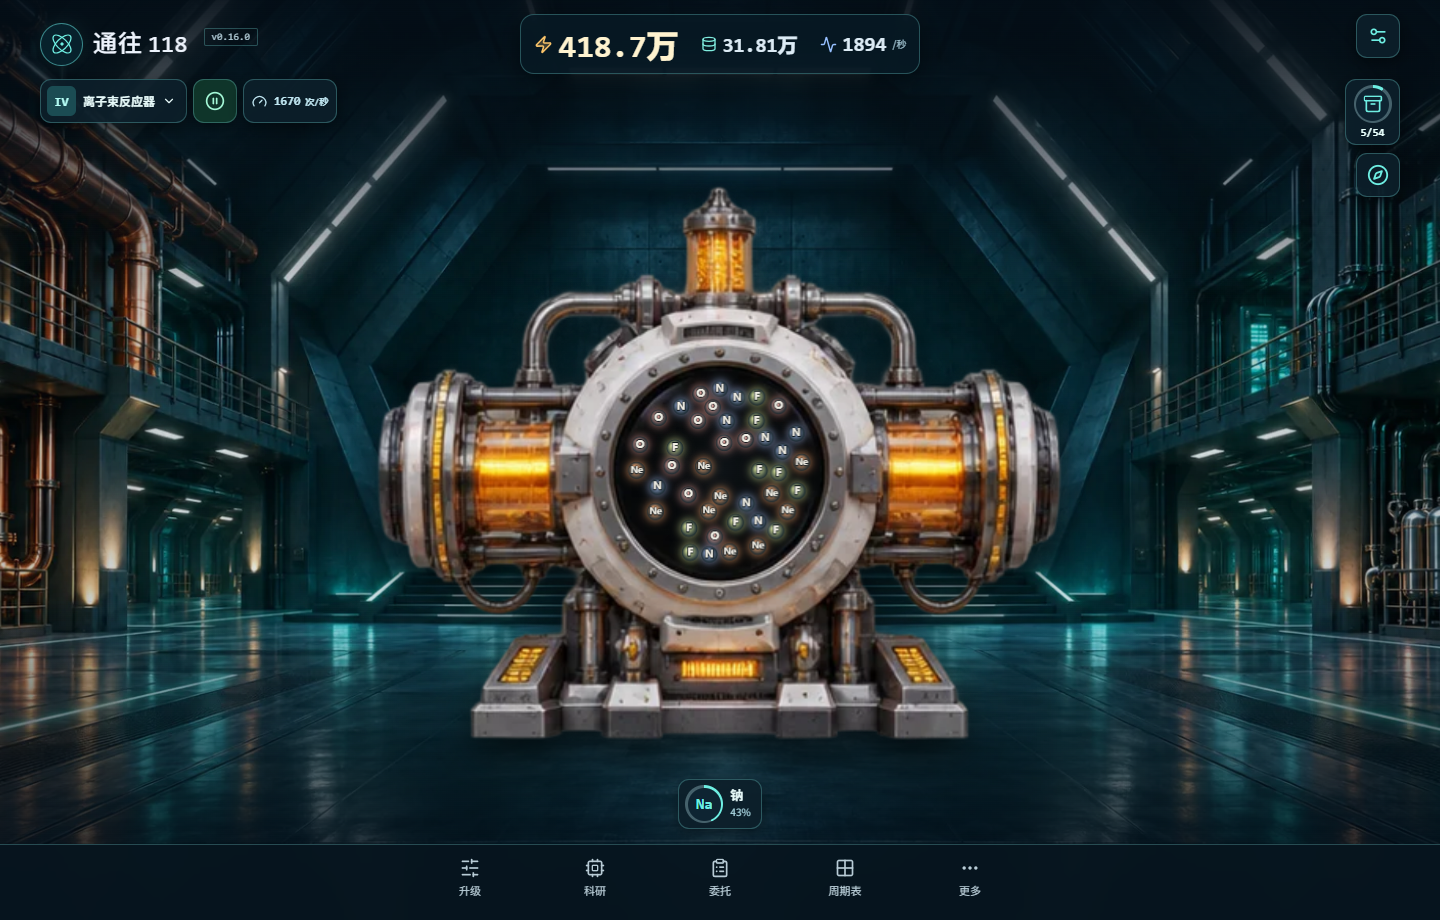
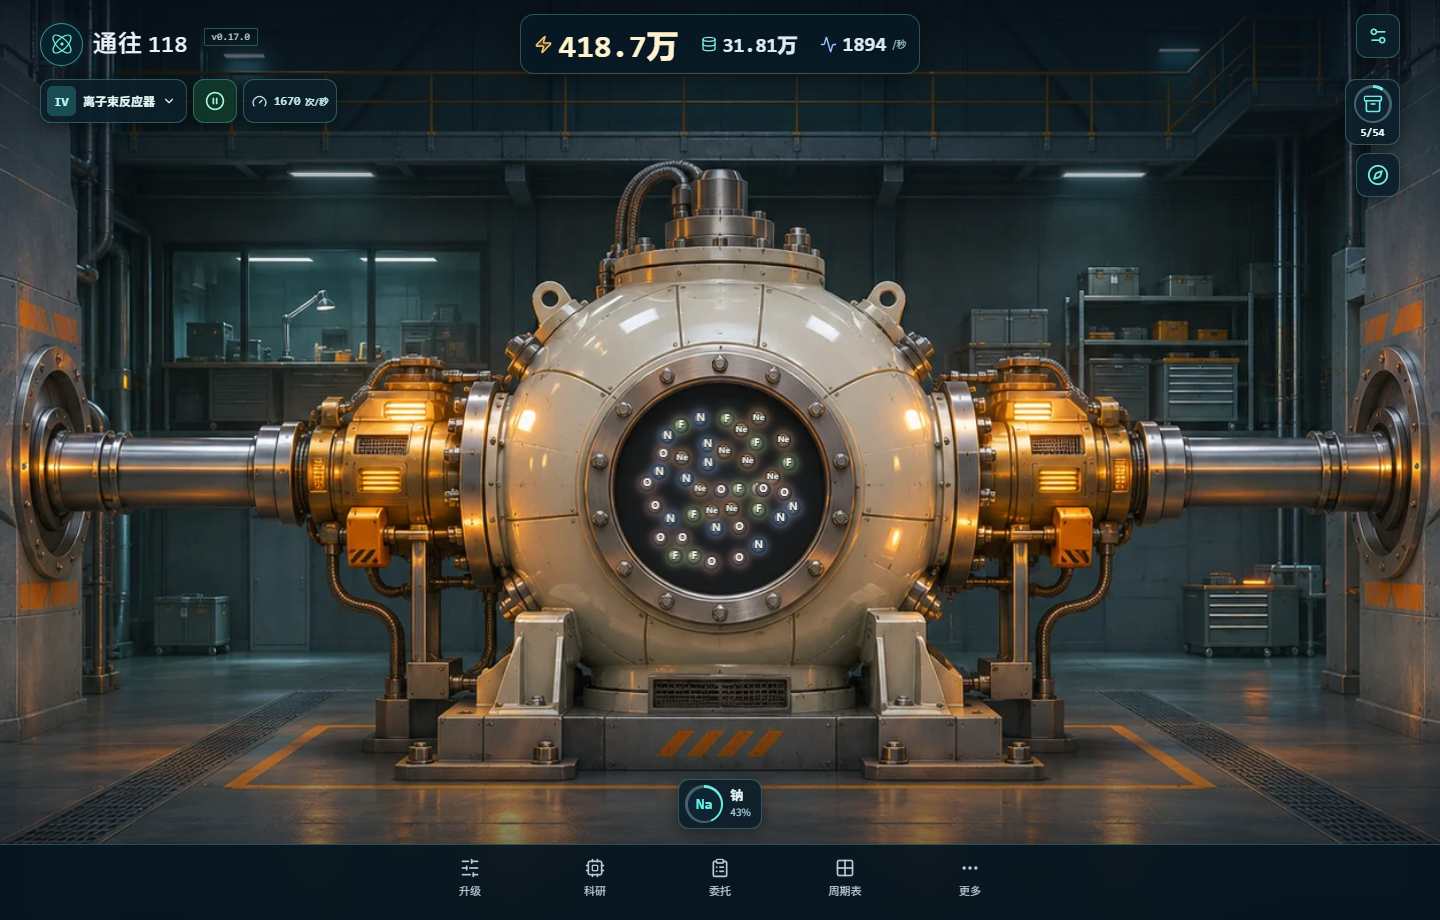
Paint each reactor and laboratory as one scene

diff --git a/src/app.tsx b/src/app.tsx
@@ -11,6 +11,7 @@ import type { GameState, Module, Upgrade } from './game/types';
 import { ELEMENTS, KNOWLEDGE, SCIENCE_NOTE, baikeUrl, element } from './data/elements';
 import Particles from './components/Particles';
 import ManualPulse from './components/ManualPulse';
+import ReactorScene from './components/ReactorScene';
 import Modal from './components/Modal';
 import Onboarding from './components/Onboarding';
 import OpeningSpotlight from './components/OpeningSpotlight';
@@ -26,7 +27,7 @@ import { assignedToSample } from './game/sampleContract';
 import { recommend, applyAdvice, openingStep } from './game/advisor';
 import './components/journey.css';
 import { AtomicFacts, FurtherScience } from './components/AtomicProfile';
-import { artworkUrl, reactorImageStyle, specimenImageStyle } from './data/artwork';
+import { artworkUrl, reactorScene, specimenImageStyle } from './data/artwork';
 import ElementAbility from './components/ElementAbility';
 import { abilityBonuses } from './game/abilityProgress';
 import AutomationControls, { IndustryModules } from './components/AutomationControls';
@@ -389,11 +390,6 @@ export default function App() {
       </button>
     </div>;
   }
-  const viewport = (
-    <div className="viewport">
-      <Particles count={Math.min(60, activeAtoms(r).toNumber())} mix={visualPool} speed={r.upgrades.speed} reduced={s.settings.reducedMotion} active={r.active} flash={flash}/>
-    </div>
-  );
   const collisionControl = <ManualPulse key={focus} enabled={engine.canManualPulse(focus)} reducedMotion={s.settings.reducedMotion}
         tutorialTarget label={r.active ? '点击触发碰撞' : '仪器已暂停'}
         onPulse={() => {
@@ -474,12 +470,12 @@ export default function App() {
     }
   };
 
-  const lab = () => <section className="lab-scene" aria-label="实验室" data-guiding={!!spotlight}
-    style={{ '--hall-art': `url("${artworkUrl('accelerator-hall.webp')}")` } as CSSProperties}>
-    <div className="device lab-playfield device-illustrated" inert={!!activeDrawer}>
-      <div className="device-photo" style={reactorImageStyle(focus)}>{viewport}</div>
-      {collisionControl}
-    </div>
+  const lab = () => <section className="lab-scene" aria-label="实验室" data-guiding={!!spotlight}>
+    <ReactorScene key={focus} id={focus}>
+      <Particles count={Math.min(60, activeAtoms(r).toNumber())} mix={visualPool}
+        speed={r.upgrades.speed} reduced={s.settings.reducedMotion} active={r.active} flash={flash}/>
+    </ReactorScene>
+    <div className="device lab-playfield" inert={!!activeDrawer}>{collisionControl}</div>
     <div className="scene-hud">
       {brand()}
       <section className="scene-resources" aria-label="实验室资源">
@@ -594,7 +590,7 @@ export default function App() {
     </section>
   );
 
-  const research = () => <><div className="section-heading"><div><h1>科研</h1></div><div className="research-budget"><span>可用研究数据</span><strong>{fmt(s.data)}<small> 点</small></strong></div></div><div className="research-grid">{REACTORS.map(t => { const state = s.reactors[t.id - 1], unlocked = max >= t.unlock, afford = s.coins.gte(t.buildCoins) && s.data.gte(t.buildData); return <section id={`research-reactor-${t.id}`} className={`panel research-device ${!unlocked ? 'is-locked' : ''}`} key={t.id}><div className="research-device-art research-series"><div style={reactorImageStyle(t.id)} /></div><div className="research-device-copy"><div className="eyebrow">{t.roman} 级 / {t.range}</div><h2>{t.name}</h2><div className="spec-line"><span>速度上限</span><strong>{t.cap} 次/秒</strong></div><div className="spec-line"><span>开放条件</span><strong>{t.id === 1 ? '开局可用' : `首次发现 ${element(t.unlock).name}`}</strong></div>{state.built ? <button className="secondary-button full" onClick={() => { setFocus(t.id); goToTab('lab'); }}><Check size={15}/>已建成 · 进入控制台<ArrowRight size={15}/></button> : <><div className="construction-cost"><span className={s.coins.gte(t.buildCoins) ? '' : 'insufficient'}>{fmt(t.buildCoins)} 碰撞能</span><span className={s.data.gte(t.buildData) ? '' : 'insufficient'}>{fmt(t.buildData)} 数据</span></div><button className="primary-button full" data-guide-target={t.id === 2 ? "build" : undefined} disabled={!unlocked || !afford} onClick={() => act(e => { if (e.build(t.id)) { setFocus(t.id); goToTab('lab'); } })}>{!unlocked ? <><LockKeyhole size={15}/>发现 {element(t.unlock).symbol} 后开放</> : <>研发并建造<ArrowRight size={15}/></>}</button>{unlocked && !afford && <p className="cost-shortfall">还差 {shortfall(t.buildCoins, t.buildData)}</p>}</>}</div></section>; })}</div><section id="industry-panel" className="panel industry-panel"><div className="panel-heading"><div><span className="eyebrow">INDUSTRIAL PIPELINE</span><h2>工业自动化</h2></div><span className="tiny-label">{Object.values(s.modules).filter(Boolean).length} / 3 模块</span></div><IndustryModules state={s} max={max} act={act}/><AutomationControls state={s} max={max} act={act}/></section></>;
+  const research = () => <><div className="section-heading"><div><h1>科研</h1></div><div className="research-budget"><span>可用研究数据</span><strong>{fmt(s.data)}<small> 点</small></strong></div></div><div className="research-grid">{REACTORS.map(t => { const state = s.reactors[t.id - 1], unlocked = max >= t.unlock, afford = s.coins.gte(t.buildCoins) && s.data.gte(t.buildData); return <section id={`research-reactor-${t.id}`} className={`panel research-device ${!unlocked ? 'is-locked' : ''}`} key={t.id}><div className="research-device-art research-series"><img src={artworkUrl(reactorScene(t.id).file)} alt="" loading="lazy" decoding="async"/></div><div className="research-device-copy"><div className="eyebrow">{t.roman} 级 / {t.range}</div><h2>{t.name}</h2><div className="spec-line"><span>速度上限</span><strong>{t.cap} 次/秒</strong></div><div className="spec-line"><span>开放条件</span><strong>{t.id === 1 ? '开局可用' : `首次发现 ${element(t.unlock).name}`}</strong></div>{state.built ? <button className="secondary-button full" onClick={() => { setFocus(t.id); goToTab('lab'); }}><Check size={15}/>已建成 · 进入控制台<ArrowRight size={15}/></button> : <><div className="construction-cost"><span className={s.coins.gte(t.buildCoins) ? '' : 'insufficient'}>{fmt(t.buildCoins)} 碰撞能</span><span className={s.data.gte(t.buildData) ? '' : 'insufficient'}>{fmt(t.buildData)} 数据</span></div><button className="primary-button full" data-guide-target={t.id === 2 ? "build" : undefined} disabled={!unlocked || !afford} onClick={() => act(e => { if (e.build(t.id)) { setFocus(t.id); goToTab('lab'); } })}>{!unlocked ? <><LockKeyhole size={15}/>发现 {element(t.unlock).symbol} 后开放</> : <>研发并建造<ArrowRight size={15}/></>}</button>{unlocked && !afford && <p className="cost-shortfall">还差 {shortfall(t.buildCoins, t.buildData)}</p>}</>}</div></section>; })}</div><section id="industry-panel" className="panel industry-panel"><div className="panel-heading"><div><span className="eyebrow">INDUSTRIAL PIPELINE</span><h2>工业自动化</h2></div><span className="tiny-label">{Object.values(s.modules).filter(Boolean).length} / 3 模块</span></div><IndustryModules state={s} max={max} act={act}/><AutomationControls state={s} max={max} act={act}/></section></>;
 
   const achievements = () => <><div className="section-heading"><div><div className="eyebrow">MILESTONES & IMPOSSIBILITIES</div><h1>记录突破，<span>也记录那些意外。</span></h1></div><span className="count-badge">{s.achievements.length}<small> / {ACHIEVEMENTS.length}</small></span></div><div className="achievement-grid">{ACHIEVEMENTS.map(a => { const earned = s.achievements.includes(a.id), hidden = a.hidden && !earned; return <section className={`panel achievement ${earned ? 'earned' : ''} ${hidden ? 'secret' : ''}`} key={a.id}><div className="achievement-medal">{hidden ? <LockKeyhole size={23}/> : a.hidden ? <Sparkles size={25}/> : <Trophy size={25}/>}</div><div><span className="eyebrow">{a.hidden ? 'HIDDEN DISCOVERY' : 'LAB MILESTONE'}{earned ? ' / 已达成' : ''}</span><h3>{hidden ? '？？？' : a.name}</h3><p>{hidden ? '在实验室的边界之外，还有意想不到的可能。' : a.description}</p></div>{earned && <Check className="earned-check" size={18}/>}</section>; })}</div><p className="page-note">隐藏成就只记录在线的成功合成；已发现元素的重复生产也可达成。徽章不会改变生产倍率。</p></>;
 

diff --git a/src/tests/browser/game.spec.ts b/src/tests/browser/game.spec.ts
@@ -293,7 +293,7 @@ test('H–Xe cards show specimen art, neutral electrons and isotope-specific neu
   await expect(dialog.locator('.electron-configuration')).toHaveCount(0);
 });
 
-test('I–VIII each load distinct art and support a manual pulse at the edge of the picture', async ({ page }) => {
+test('I–VIII each load an integrated scene with a visible window and support pulses at the edge', async ({ page }) => {
   const state = createState(810);
   state.settings.guideDismissed = true;
   state.elements.forEach(element => { element.discovered = true; });
@@ -301,28 +301,38 @@ test('I–VIII each load distinct art and support a manual pulse at the edge of 
   await page.addInitScript(save => localStorage.setItem('road-to-118.save.v1', save), serialize(state));
   await page.goto('/');
   const selector = page.getByRole('combobox', { name: '切换反应容器' });
-  const device = page.locator('.device-illustrated');
-  const positions = new Set<string>();
+  const device = page.locator('.lab-playfield');
+  const sources = new Set<string>();
   for (let index = 0; index < 8; index++) {
-    await page.setViewportSize({ width: index === 1 ? 360 : 1440, height: 800 });
+    const width = index % 2 ? 360 : 1440;
+    await page.setViewportSize({ width, height: 800 });
     await openLabPanel(page, 'instrument');
     await selector.selectOption(String(index + 1));
     await closeLabPanel(page);
-    const photo = device.locator('.device-photo');
-    await expect(photo).toHaveCSS('background-image', /reactor-series\.webp/);
-    positions.add(await photo.evaluate(photo => getComputedStyle(photo).backgroundPosition));
+    const photo = page.locator('.scene-image');
+    await expect(photo).toHaveAttribute('src', /reactor-room-[iv]+\.webp/);
+    sources.add(await photo.getAttribute('src') ?? '');
+    const aperture = page.locator('.scene-aperture canvas');
+    await expect(aperture).toBeInViewport({ ratio: 1 });
+    const window = (await aperture.boundingBox())!;
+    expect(window.width).toBeGreaterThan(70);
+    expect(window.x).toBeGreaterThan(0);
+    expect(window.x + window.width).toBeLessThan(width);
     const pulse = device.getByRole('button', { name: '手动碰撞' });
     await pulse.scrollIntoViewIfNeeded();
     const artBox = (await photo.boundingBox())!;
     const area = (await pulse.boundingBox())!;
     expect(artBox.width).toBeCloseTo(artBox.height, 0);
     expect(area).toEqual(await device.boundingBox());
-    await pulse.click({ position: { x: artBox.x - area.x + 10, y: 10 } });
+    await pulse.click({ position: { x: 10, y: area.height / 2 } });
     await expect(device.locator('.mp-fx-group.is-latest')).toContainText('碰撞能');
   }
   await page.getByRole('navigation', { name: '主导航' }).getByRole('button', { name: '科研' }).click();
-  expect(positions.size).toBe(8);
-  await expect(page.locator('.research-device-art.research-series')).toHaveCount(8);
+  expect(sources.size).toBe(8);
+  const gallery = page.locator('.research-device-art.research-series img');
+  await expect(gallery).toHaveCount(8);
+  expect(await gallery.evaluateAll(images => images.map(image => image.getAttribute('src')).sort()))
+    .toEqual([...sources].sort());
 });
 
 test('320px and 360px knowledge cards keep atomic data readable and distinguish fluorine from fluoride',async({page})=>{
@@ -442,7 +452,7 @@ test('released Ne save upgrades in place and shows a real Na survey after IV tun
   await openLabPanel(page, 'archive');
   await expect(page.locator('[data-z="10"]')).toHaveClass(/archived/);
   await closeLabPanel(page);
-  await expect(page.locator('.device-photo')).toHaveCSS('background-image',/reactor-series/);
+  await expect(page.locator('.scene-image')).toHaveAttribute('src', /reactor-room-iv\.webp/);
   await page.screenshot({path:'artifacts/v02-reactor-iv-desktop.png',fullPage:true,animations:'disabled'});
 });
 

diff --git a/src/components/lab-scene.css b/src/components/lab-scene.css
@@ -17,18 +17,42 @@
   min-height: 340px;
   overflow: clip;
   color: var(--scene-ink);
-  background: #061923 var(--hall-art) center 51% / cover no-repeat;
+  background: #061923;
+}
+.scene-art {
+  position: absolute;
+  inset: 0;
+  overflow: hidden;
+  container-type: size;
+  pointer-events: none;
+  user-select: none;
+}
+.scene-frame {
+  position: absolute;
+  top: 50%;
+  left: 50%;
+  width: max(100cqw, 100cqh);
+  aspect-ratio: 1;
+  transform: translate(-50%, -50%);
+}
+.scene-image { display: block; width: 100%; height: 100%; }
+.scene-aperture {
+  position: absolute;
+  aspect-ratio: 1;
+  transform: translate(-50%, -50%);
+  clip-path: circle(50%);
 }
 .lab-scene::before {
   content: '';
   position: absolute;
+  z-index: 1;
   inset: 0;
   pointer-events: none;
-  background: linear-gradient(180deg, #040e17e8, #0614206b 18%, transparent 33%, transparent 65%, #020c16d9 96%),
-    radial-gradient(ellipse at 50% 59%, #09546a30, #00142020 46%, #02091067 100%);
+  background: linear-gradient(180deg, #050e17d9, #09172058 16%, transparent 31%, transparent 72%, #020d17be 100%);
 }
 .scene-shell .lab-playfield {
   position: absolute;
+  z-index: 2;
   inset: max(119px, 15svh) 0 max(144px, 16svh);
   width: auto;
   aspect-ratio: auto;
@@ -36,18 +60,8 @@
   background: transparent;
   box-shadow: none;
   overflow: visible;
-  container-type: size;
 }
 .scene-shell .lab-playfield::after { content: none; }
-.scene-shell .lab-playfield .device-photo {
-  width: min(96cqw, 110cqh, 710px);
-  aspect-ratio: 1;
-  left: 50%;
-  top: 54%;
-  transform: translate(-50%, -50%);
-  filter: drop-shadow(0 16px 21px #000b);
-}
-.scene-shell .lab-playfield .viewport { --port-width: 31%; --port-y: 48.5%; z-index: 1; }
 .scene-shell .lab-playfield .manual-pulse { overflow: hidden; }
 .scene-shell .lab-playfield .manual-pulse__hit:focus-visible { border-radius: 12px; }
 .scene-shell .lab-playfield .mp-hint { bottom: 1%; }
@@ -333,13 +347,12 @@
 }
 .scene-more button svg:last-child { margin-left: auto; }
 .app-shell .research-device-art.research-series {
-  display: grid;
-  place-items: center;
+  display: block;
+  overflow: hidden;
   aspect-ratio: 1.7;
-  padding: 10px;
-  background: radial-gradient(ellipse, #274959, #102330 64%, #0b1826);
+  background: #10232e;
 }
-.research-series > div { height: 100%; aspect-ratio: 1; max-width: 100%; }
+.research-series img { display: block; width: 100%; height: 100%; object-fit: cover; }
 .scene-drawer-content .bulk-control button,
 .scene-drawer-content .reactor-switch > button,
 .scene-drawer-content #reactor-selector,
@@ -363,7 +376,6 @@
   .scene-hud > .scene-icon-button { grid-row: 1; grid-column: 2; }
   .scene-instrument, .scene-tools { top: max(105px, calc(env(safe-area-inset-top) + 97px)); }
   .scene-shell .lab-playfield { top: max(158px, 20svh); bottom: max(145px, 16svh); }
-  .scene-shell .lab-playfield .device-photo { width: min(97cqw, 118cqh); }
   .scene-local { min-height: 33px; }
   .scene-drawer, .scene-drawer:has(.lab-archive) { width: 100%; max-height: 69svh; }
   .scene-drawer-content { padding-inline: 10px; }
@@ -381,7 +393,6 @@
 @media (max-height: 560px) and (min-width: 661px) {
   .scene-shell .lab-playfield { inset-block: 106px 120px; }
   .scene-shell [data-guiding=true] .lab-playfield { inset: 100px 20% 116px; }
-  .scene-shell .lab-playfield .device-photo { width: min(96cqw, 133cqh); }
   .scene-actions { bottom: calc(var(--dock-height) + 6px); }
 }
 @media (prefers-reduced-motion: reduce) {

diff --git a/src/data/artwork.ts b/src/data/artwork.ts
@@ -24,11 +24,18 @@ export function specimenImageStyle(z: number) {
   };
 }
 
-export function reactorImageStyle(id: number) {
-  const cell = id - 1;
-  return {
-    backgroundImage: `url("${artworkUrl('reactor-series.webp')}")`,
-    backgroundSize: '400% 200%',
-    backgroundPosition: `${(cell % 4) * 100 / 3}% ${Math.floor(cell / 4) * 100}%`,
-  };
+// Center x, center y and usable glass diameter as percentages of the source square.
+const reactorScenes = [
+  { file: 'reactor-room-i.webp', aperture: [50, 49.6, 14.4] },
+  { file: 'reactor-room-ii.webp', aperture: [50, 50.4, 14.3] },
+  { file: 'reactor-room-iii.webp', aperture: [50, 51.3, 13.8] },
+  { file: 'reactor-room-iv.webp', aperture: [50, 52, 14] },
+  { file: 'reactor-room-v.webp', aperture: [50, 48.4, 13.2] },
+  { file: 'reactor-room-vi.webp', aperture: [50, 52.8, 15.7] },
+  { file: 'reactor-room-vii.webp', aperture: [50, 50, 14.3] },
+  { file: 'reactor-room-viii.webp', aperture: [50, 52.5, 14.3] },
+] as const;
+
+export function reactorScene(id: number) {
+  return reactorScenes[id - 1];
 }

diff --git a/src/components/ReactorScene.tsx b/src/components/ReactorScene.tsx
@@ -1,0 +1,16 @@
+import { useState, type CSSProperties, type ReactNode } from 'react';
+import { artworkUrl, reactorScene } from '../data/artwork';
+
+export default function ReactorScene({ id, children }: { id: number; children: ReactNode }) {
+  const [loaded, setLoaded] = useState(false);
+  const { file, aperture } = reactorScene(id);
+  const [x, y, diameter] = aperture;
+  const viewport = { left: `${x}%`, top: `${y}%`, width: `${diameter}%` } satisfies CSSProperties;
+  return <div className="scene-art">
+    <div className="scene-frame">
+      <img className="scene-image" src={artworkUrl(file)} alt="" draggable={false} fetchPriority="high"
+        onLoad={() => setLoaded(true)}/>
+      {loaded && <div className="scene-aperture" style={viewport}>{children}</div>}
+    </div>
+  </div>;
+}

diff --git a/src/game/config.ts b/src/game/config.ts
@@ -1,5 +1,5 @@
 import type { Module, Upgrade } from './types';
-export const GAME_VERSION = '0.16.0';
+export const GAME_VERSION = '0.17.0';
 /** Current playable range is H–Xe (1–54). Elements 55–118 stay visible as future research. */
 export const PLAYABLE_ELEMENTS = 54;
 export const FINAL_ELEMENT = 54;

diff --git a/README.md b/README.md
@@ -1,12 +1,12 @@
 # 通往118 · Road to 118
 
-从两颗氢原子开始，建立属于你的元素实验室。**v0.16.0 已开放第 1–54 号元素（氢至氙）。**
+从两颗氢原子开始，建立属于你的元素实验室。**v0.17.0 已开放第 1–54 号元素（氢至氙）。**
 
 ## [开始游戏](https://xd666-afk.github.io/road-to-118/)
 
 手机和电脑浏览器均可游玩，无需安装或注册。[完整教程](https://xd666-afk.github.io/road-to-118/#guide)可随时查阅。
 
-实验室采用全屏场景。上方图标显示资源和实验速度，进度环显示元素收录与当前观测进度。点击底部的升级、委托和周期表可展开对应面板。
+实验室采用全屏场景。I–VIII 级容器各有一间完整绘制的实验室，科研页使用同一套场景图。上方图标显示资源和实验速度，进度环显示元素收录与当前观测进度。点击底部的升级、委托和周期表可展开对应面板。
 
 ![离子束反应器与实验室](docs/laboratory.png)
 
